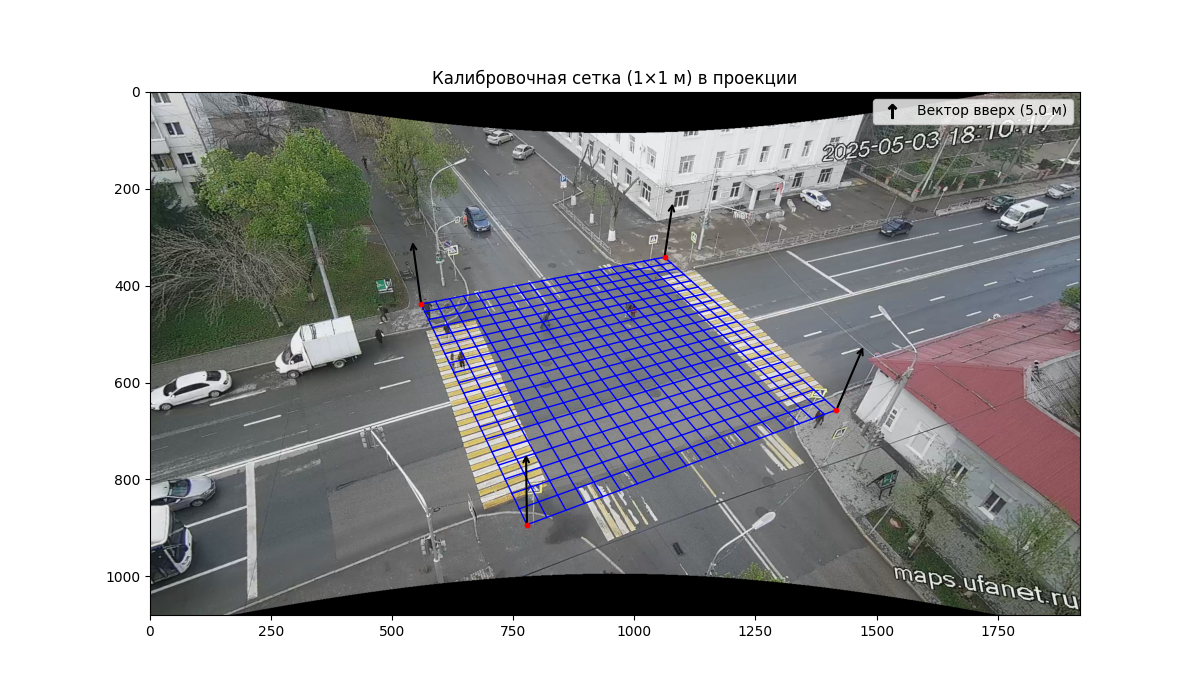
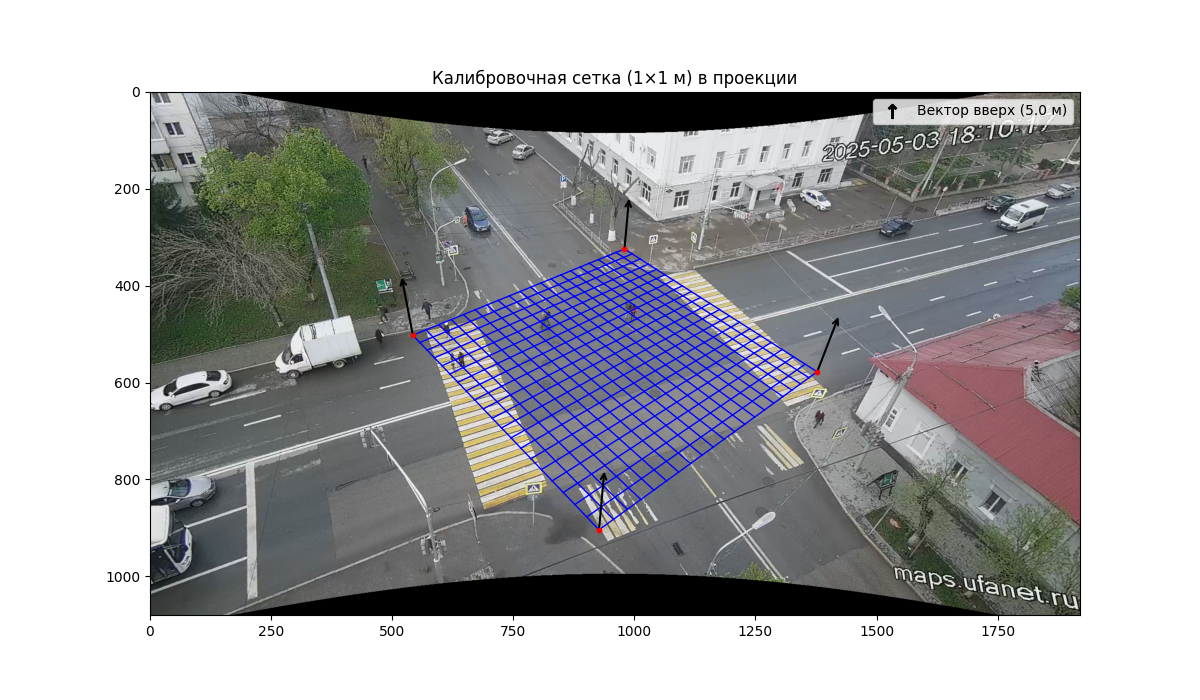
Добавил прямую оптимизацию

Changed region(s): [[0.3392, 0.33, 0.7092, 0.75]]

diff --git a/example/pushkin_aksakov/example.py b/example/pushkin_aksakov/example.py
@@ -1,7 +1,8 @@
 from source import CalibrationPipeline, Camera, VanishingPointCalibration, \
     RefineOptimizer
 from source.utils import load_lines, load_lines_from_json
-from calibration.refine import residual_interline_distance, residual_parallel_group
+from calibration.refine import residual_interline_distance, residual_parallel_group, \
+    residual_reprojection_line
 from calibration.debug import load_scene_gps
 
 import numpy as np
@@ -34,27 +35,34 @@ def back_refine():
         lambda cam, data: residual_interline_distance(cam, data, group="dist_between_line_2", expected=5.5),
         lambda cam, data: residual_parallel_group(cam, data, group="lane_lines"),
     ]
-    refiner = RefineOptimizer(camera=camera,
-                              residual_blocks=resualds_blocks,
-                              mask=[0, 6],
-                              bounds=([900, 5], [2000, 30]),
-                              debug_save_path='image/')
-    pipeline = CalibrationPipeline([vp_init, refiner])
-    mask = [0, 6]
-    bounds = ([900, 4], [2000, 35])
+    refiner_first = RefineOptimizer(camera=camera,
+                                    residual_blocks=resualds_blocks,
+                                    mask=[0, 6],
+                                    bounds=([900, 5], [2000, 30]),
+                                    debug_save_path='image/')
+
+    pipeline = CalibrationPipeline([vp_init, refiner_first])
     camera = pipeline.run(camera, data)
 
 
-back_refine()  # Дооптимизация через обратную проекцию
+# back_refine()  # Дооптимизация через обратную проекцию
 
 
 def direct_refine():
     global camera
-    refiner = RefineOptimizer(camera, debug_save_path='image/')
-    print(load_lines_from_json('marked/lines_gps_to_pixel.json'))
+    data = {"lines_gps_and_pixel": load_lines_from_json('marked/lines_gps_to_pixel.json')
+            }
+
+    resualds_blocks = [
+        lambda cam, data: residual_reprojection_line(cam, data, group="lines_gps_and_pixel", gps_origin=(54.723767, 55.933369)),
+    ]
+
+    refiner_first = RefineOptimizer(camera=camera, residual_blocks=resualds_blocks,debug_save_path='image/')
+    pipeline = CalibrationPipeline([vp_init, refiner_first])
+    camera = pipeline.run(camera, data)
 
 
-# direct_refine() # Дооптимизация через прямую проекцию
+direct_refine()  # Дооптимизация через прямую проекцию
 
 
 def debug_gps():
@@ -67,4 +75,4 @@ def debug_gps():
     plt.scatter(650 / 2, 450 / 2)
     plt.show()
 
-# debug_gps()
+# debug_gps() #

diff --git a/source/calibration/refine/direct_error_funk.py b/source/calibration/refine/direct_error_funk.py
@@ -1,13 +1,30 @@
 import numpy as np
 
 from core import Camera, PointND
+from utils import gps_to_enu
 
 
-def residual_reprojection_line(camera, data, group):
+def residual_reprojection_line(camera, data, group, gps_origin):
     residuals = []
     lines = data.get(group, [])
     for line in lines:
-        pass
+        p1, p2 = line['pixel']
+        P1, P2 = line['gps']
+        _p1 = camera.project_direct(PointND([*gps_to_enu(*P1, *gps_origin), 0])).get()
+        _p2 = camera.project_direct(PointND([*gps_to_enu(*P2, *gps_origin), 0])).get()
+        error1 = np.sum((np.array(_p2) - np.array(p2)) ** 2)
+        error2 = np.sum((np.array(_p1) - np.array(p1)) ** 2)
+        error = np.sqrt(error1 + error2)
+        residuals.append(error)
+    return residuals
+
+
+def line_projection_error(camera: Camera, line, gps_origin):
+    p1, p2 = line['pixel']
+    P1, P2 = line['gps']
+    P1, P2 = gps_to_enu(*gps_origin, *P1)
+
+    return 0
 
 
 def point_projection_error(camera: Camera, point) -> float:

diff --git a/source/calibration/refine/optimizer.py b/source/calibration/refine/optimizer.py
@@ -47,10 +47,10 @@ class RefineOptimizer(Calibration):
 
         result = self.solver(loss_fn,
                              x0,
-                             method=self.method,
+                             method= self.method,
                              bounds=self.bounds,
                              verbose=2,
-                             loss='soft_l1'
+                             max_nfev= 10000
                              )
 
         print("-" * 50)

diff --git a/source/calibration/refine/__init__.py b/source/calibration/refine/__init__.py
@@ -1,8 +1,10 @@
 from .optimizer import RefineOptimizer
 from .back_error_funk import residual_interline_distance, residual_parallel_group
+from .direct_error_funk import residual_reprojection_line
 
 __all__ = [
     "RefineOptimizer",
     "residual_interline_distance",
-    "residual_parallel_group"
+    "residual_parallel_group",
+    "residual_reprojection_line"
 ]

diff --git a/source/calibration/debug/debug_position_camera.py b/source/calibration/debug/debug_position_camera.py
@@ -81,4 +81,5 @@ def visualize_camera_and_world_axes(
 
 camera = Camera("../../../example/pushkin_aksakov/image/pattern_corrected_image.png")
 camera.set_params_from_list([1230, -158.11, 51.84, 172.31, 0, 0, 23.79])
+# camera.set_params_from_list([1419.59, -142.56  ,49.5 , -185.62 , -12.82 , -18.38 ,  30.63])
 visualize_camera_and_world_axes(camera)
